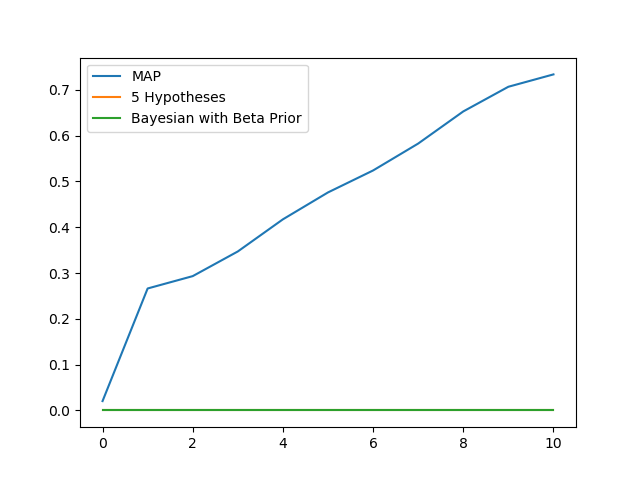
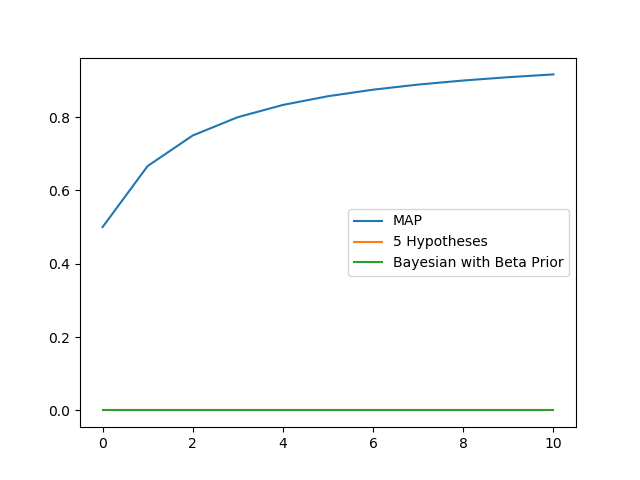
fixed MAP bayesian

diff --git a/bayesian.py b/bayesian.py
@@ -49,36 +49,50 @@ class Posterior:
         print(self.N)
         print()
 
-        lime_probs = [0, .25, .50, .75, 1.0]
-        hypo_probs = [.1, .2, .4, .2, .1]
 
-        lime_list = np.zeros(self.N)
 
-        for lime in range(self.limes.shape[0]):
-            # iterate over all the hypotheses
-            sum_lime = 0
-            sum_cherry = 0
-            for i in range(5):
-                local_sum_lime = lime_probs[i]*hypo_probs[i]
-                local_sum_cherry = (1-lime_probs[i])*hypo_probs[i]
-                # iterate over all the samples
-                product = 1
-                for j in range(self.N):
-                    print(lime)
-                    if (j < self.limes[lime]):
-                        product = product * lime_probs[i]
-                    else:
-                        product = product * (1- lime_probs[i])
-                sum_lime += local_sum_lime * product
-                sum_cherry += local_sum_cherry * product
-            final_sum = (sum_lime/(sum_lime+sum_cherry))
-            print("sum of limes is: " + str(sum_lime))
-            print("sum of cherries is: " + str(sum_cherry))
-            print("final sum: " + str(final_sum))
-            print("cherry sum: " + str((sum_cherry)/(sum_lime + sum_cherry)))
-            lime_list[lime] = final_sum
+        ###
+        lime_list  = np.zeros(self.N)
 
-            print(lime_list[lime])
+        for x in range(self.N):
+            # beta prior, beta[a, b]
+            # use 1- theta for each value of lime
+            theta = (self.cherries + self.a - 1) / (self.cherries + self.limes[x] + self.a + self.b - 2)
+            one_minus_theta = 1 - theta
+            lime_list[x] = one_minus_theta
+        ###
+
+        # lime_probs = [0, .25, .50, .75, 1.0]
+        # hypo_probs = [.1, .2, .4, .2, .1]
+        #
+        # lime_list = np.zeros(self.N)
+        #
+        # for lime in range(self.limes.shape[0]):
+        #     # iterate over all the hypotheses
+        #     sum_lime = 0
+        #     sum_cherry = 0
+        #     for i in range(5):
+        #         local_sum_lime = lime_probs[i]*hypo_probs[i]
+        #         local_sum_cherry = (1-lime_probs[i])*hypo_probs[i]
+        #         # iterate over all the samples
+        #         product = 1
+        #         for j in range(self.N):
+        #             print(lime)
+        #             if (j < self.limes[lime]):
+        #                 product = product * lime_probs[i]
+        #             else:
+        #                 product = product * (1- lime_probs[i])
+        #         sum_lime += local_sum_lime * product
+        #         sum_cherry += local_sum_cherry * product
+        #     final_sum = (sum_lime/(sum_lime+sum_cherry))
+        #     print("sum of limes is: " + str(sum_lime))
+        #     print("sum of cherries is: " + str(sum_cherry))
+        #     print("final sum: " + str(final_sum))
+        #     print("cherry sum: " + str((sum_cherry)/(sum_lime + sum_cherry)))
+        #     lime_list[lime] = final_sum
+
+            # print(lime_list[lime])
+        print(lime_list)
         return lime_list
 
     def get_finite(self):
